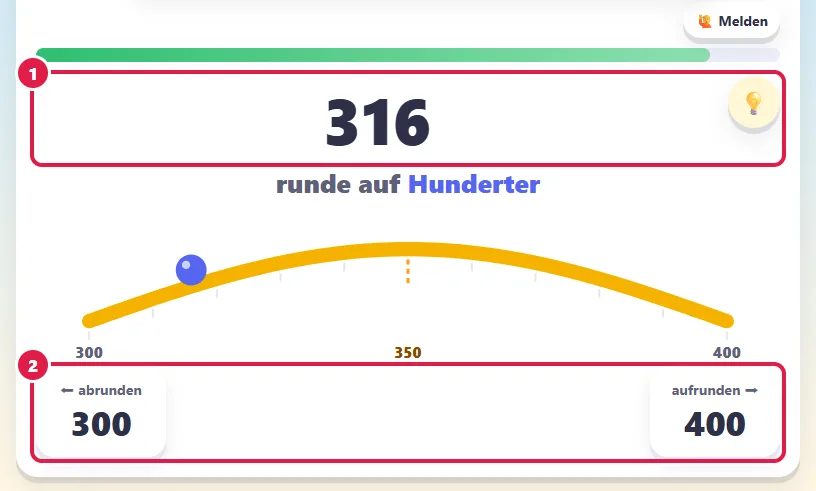
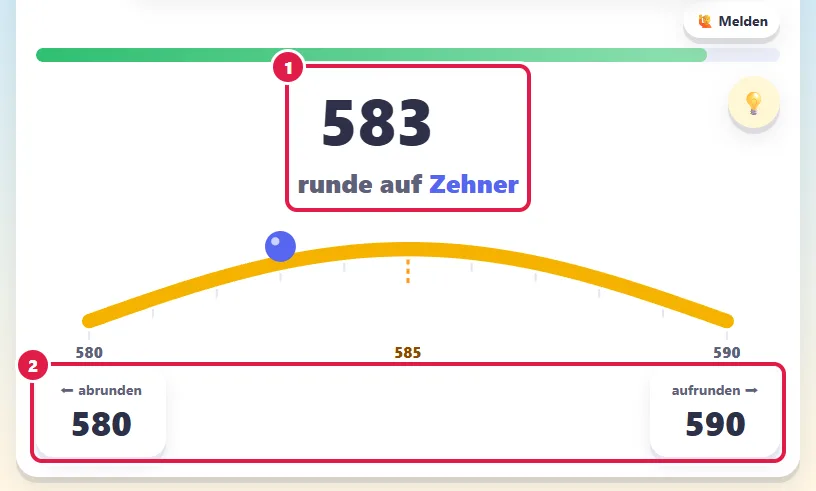
LERN_Session38: Anleitung k04 — Rahmen „Das ist die Aufgabe“ um Zahl und Auftrag zusammen, ohne 💡 (Hinweis Patrik); tools/anleitung_bilder.js: Rahmen-Ziele mit alle (über alle Treffer) und eng (um den Inhalt statt die Blockbreite), Aufruf --nur=<bild,…> schreibt nur diese Bilder; k04-aufgabe breit u

diff --git a/tools/anleitung_bilder.js b/tools/anleitung_bilder.js
@@ -1,6 +1,7 @@
 // Nimmt die Bilder für die Anleitungen auf: eulenpfad/anleitung/bilder/<name>-<fassung>.webp (LERN_Session7,
 // neu aufgebaut LERN_Session37 nach docs/eulenpfad/konzept_anleitungen.md, AL3 a, AL4 a, AL7 a).
 // Aufruf: node tools/anleitung_bilder.js [Basis-URL, Vorgabe http://localhost:8765] [--fassung=breit|schmal]
+//   [--nur=k04-aufgabe,…] (nur diese Bilder schreiben; der Ablauf läuft ganz, die übrigen Bilder bleiben unberührt)
 // Der Server muss das Repo ausliefern (python tools/entwickler_server.py oder python -m http.server 8765).
 //
 // Chrome läuft ohne Fenster mit einem eigenen, leeren Profil in einem temporären Ordner: Daten im
@@ -22,6 +23,7 @@ const path = require("path");
 const argumente = process.argv.slice(2);
 const BASIS = (argumente.find(a => !a.startsWith("--")) || "http://localhost:8765").replace(/\/$/, "");
 const NUR_FASSUNG = argumente.find(a => a.startsWith("--fassung="))?.split("=")[1] || null;
+const NUR_BILDER = argumente.find(a => a.startsWith("--nur="))?.split("=")[1].split(",") || null;
 const ZIEL = path.join(__dirname, "..", "eulenpfad", "anleitung", "bilder");
 const RAHMEN_DATEI = path.join(__dirname, "..", "docs", "eulenpfad", "anleitung_rahmen.json");
 const PORT = 9333;
@@ -95,6 +97,8 @@ const klick = text => js(`const k = [...document.querySelectorAll("button, a, su
  * das kleinste Element, dessen Text ihn enthält; wennDa: fehlt das Element, entfällt der Rahmen. Die Nummer folgt der
  * Lage (AL4 a): Zeilen von oben nach unten — zwei Rahmen stehen in einer Zeile, wenn sie sich in der Höhe mindestens zur
  * Hälfte des kleineren überdecken —, in der Zeile von links nach rechts. Ergebnis: die Schlüssel in dieser Reihenfolge.
+ * alle: ein Rahmen um alle sichtbaren Treffer von css zusammen; eng: nur um den Inhalt (Text, Bilder), nicht um die
+ * volle Breite eines Blocks.
  */
 async function rahmen(ziele) {
   const ids = ziele.map(z => z.id);
@@ -105,7 +109,8 @@ async function rahmen(ziele) {
     const funde = [];
     for (const z of ziele) {
       // nur sichtbare Elemente: ein zugeklapptes Element hätte keine Fläche, der Rahmen stünde im Leeren
-      let e = z.css ? [...document.querySelectorAll(z.css)].find(x => x.offsetParent !== null && x.getBoundingClientRect().width > 0) : null;
+      const sichtbar = z.css ? [...document.querySelectorAll(z.css)].filter(x => x.offsetParent !== null && x.getBoundingClientRect().width > 0) : [];
+      let e = sichtbar[0] || null;
       if (z.text) {
         const kandidaten = [...document.querySelectorAll("body *")].filter(x => x.offsetParent !== null && x.textContent.includes(z.text) && !x.classList.contains("anl-rahmen"));
         e = kandidaten.filter(x => ![...x.children].some(c => c.textContent.includes(z.text) && c.offsetParent !== null)).sort((a, b) => a.textContent.length - b.textContent.length)[0];
@@ -113,7 +118,15 @@ async function rahmen(ziele) {
       }
       // Nur der sichtbare Teil: ein Element in einem Scrollbereich (Notizblock auf dem Handy) kann darunter verdeckt
       // liegen; dann stünde der Rahmen über etwas anderem (LERN_Session37)
-      let r = e?.getBoundingClientRect();
+      // eng: nur so weit, wie der Inhalt reicht (Text, Bilder), nicht die volle Breite des Blocks — sonst fasst der
+      // Rahmen um eine Zahl auch den 💡 daneben (k04, Hinweis Patrik LERN_Session37); alle: über alle sichtbaren
+      // Treffer von css zusammen (Zahl und Auftrag sind eine Aufgabe)
+      const flaeche = x => { if (!z.eng) return x.getBoundingClientRect(); const g = document.createRange(); g.selectNodeContents(x);
+        // Schrift hat keinen Innenabstand wie ein Block: etwas Luft, sonst liegt der Rahmen auf den Buchstaben
+        const q = g.getBoundingClientRect(), luft = 6; return new DOMRect(q.left - luft, q.top - luft, q.width + 2 * luft, q.height + 2 * luft); };
+      const teile = (z.alle ? sichtbar : e ? [e] : []).map(flaeche).filter(q => q.width > 0 && q.height > 0);
+      let r = teile.length ? teile.reduce((a, q) => { const l = Math.min(a.left, q.left), t = Math.min(a.top, q.top);
+        return new DOMRect(l, t, Math.max(a.right, q.right) - l, Math.max(a.bottom, q.bottom) - t); }) : undefined;
       for (let a = e?.parentElement; r && a && a !== document.body; a = a.parentElement) {
         if (!/(auto|scroll|hidden)/.test(getComputedStyle(a).overflowY)) continue;
         const k = a.getBoundingClientRect();
@@ -225,6 +238,11 @@ async function bild(name, { css = null, ab = null, maxHoehe = AUSSCHNITT_MAX, ra
     clip: { x: b.x, y: b.y, width: b.w, height: b.h, scale: 1 } });
   if (laenger) await groesse();
   const daten = Buffer.from(r.data, "base64");
+  if (NUR_BILDER && !NUR_BILDER.includes(name)) {
+    await js(`document.querySelectorAll(".anl-rahmen, #anl-ab").forEach(e => e.remove());`);
+    rahmenJetzt = null;
+    return;
+  }
   fs.writeFileSync(path.join(ZIEL, `${name}-${fassung}.webp`), daten);
   liste[name] ??= {};
   // Schlüssel auch bei einem Ausschnitt nach Element (css): die Rahmen stehen dann darin
@@ -479,7 +497,7 @@ async function kind() {
   await bild("k03-stufen");
 
   await gehe("/eulenpfad/spiele/runden-rutsche/index.html?stufe=s1");
-  await rahmen([{ id: "aufgabe", css: ".zahl-gross" }, { id: "antworten", css: ".ziele" }]);
+  await rahmen([{ id: "aufgabe", css: ".zahl-gross, .auf", alle: true, eng: true }, { id: "antworten", css: ".ziele" }]);
   await bild("k04-aufgabe");
   await rahmen([{ id: "hilfe", css: ".hilfe-knopf" }, { id: "tipp", css: ".tipp-knopf" }, { id: "melden", css: ".melden" }, { id: "vorlesen", css: ".vorlesen", wennDa: true }]);
   await bild("k11-hilfe-tipp");
@@ -555,7 +573,7 @@ async function main() {
       await kind();
     }
     // Nach einem vollen Lauf: Bilder, die keine Aufnahme mehr haben, und ihre Einträge entfernen
-    if (!NUR_FASSUNG) {
+    if (!NUR_FASSUNG && !NUR_BILDER) {
       for (const datei of fs.readdirSync(ZIEL).filter(d => d.endsWith(".webp") && !aufgenommen.has(d.replace(/\.webp$/, "")))) {
         fs.rmSync(path.join(ZIEL, datei)); console.log(`– ${datei} (keine Aufnahme mehr)`);
       }
